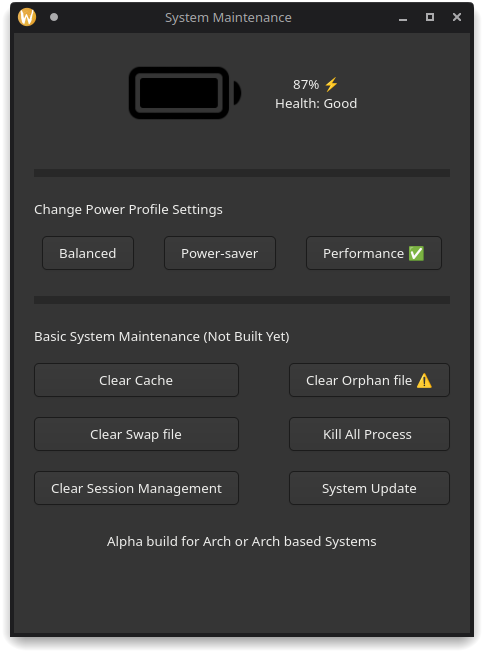
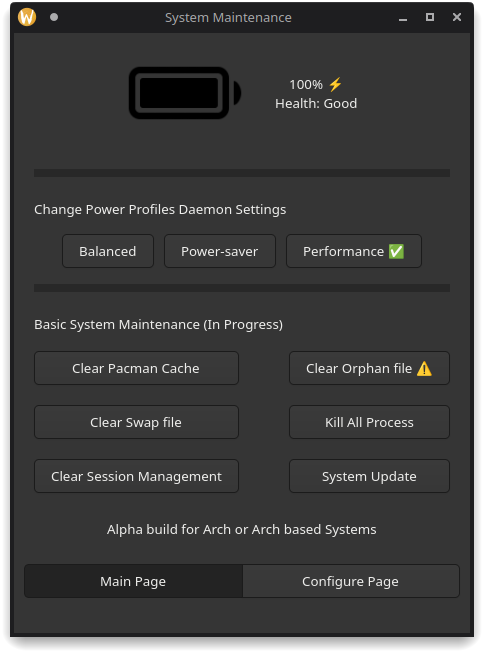
modified README.md, added minor changes to script (zenity prompt, system update fix)

diff --git a/app.py b/app.py
@@ -7,6 +7,37 @@ from gi.repository import Gtk, Gdk, GdkPixbuf, Gio, GLib
 
 gi.require_version('Gtk', '4.0')
 
+
+def prepare():
+    if not isZenityInstalled():
+        messageZen("Warning", "Zenity is not installed and could not be installed.")
+        return False
+
+    try:
+        result = subprocess.run(["pgrep", "-x", "zenity"], capture_output=True, text=True)
+        if result.returncode == 0:
+            messageZen("Warning", "Zenity is already running.")
+            return False
+    except subprocess.CalledProcessError as e:
+        messageZen("Error", f"Failed to check if Zenity is running: {e}")
+        return False
+
+    return True
+
+def messageZen(title, message):
+    if prepare():
+        try:
+            subprocess.run(["zenity", "--info", "--title", title, "--text", message], check=True)
+        except subprocess.CalledProcessError as e:
+            print(f"Failed to show message: {e}")
+
+def errorZen(title, message):
+    if prepare():
+        try:
+            subprocess.run(["zenity", "--error", "--title", title, "--text", message], check=True)
+        except subprocess.CalledProcessError as e:
+            print(f"Failed to show error: {e}")
+
 def update_battery_status(percentage_label, health_label):
     battery = psutil.sensors_battery()
     battery_percentage = int(battery.percent) if battery else None
@@ -46,7 +77,7 @@ def isZenityInstalled():
     except subprocess.CalledProcessError:
         subprocess.run(["sudo", "apt", "install", "-y", "zenity"], check=True)
         return False
-    
+
 def sudoPasswordPrompt():
     if isZenityInstalled():
         try:
@@ -119,21 +150,23 @@ def check_distro_and_update(_):
     distro_name = distro.id().lower()  # Get the lowercase distribution ID
     sudo_password = sudoPasswordPrompt()
     if not sudo_password:
-        print("No sudo password provided")
+        messageZen("Error", "No sudo password provided")
         return
 
     try:
         if 'arch' in distro_name or 'manjaro' in distro_name:
-            subprocess.run(["sudo", "pacman", "-Syu"], input=sudo_password + "\n", text=True, check=True)
-            subprocess.run(["yay", "-Syu"], check=True)
-            subprocess.run(["paru", "-Syu"], check=True)
+            subprocess.run(["sudo", "pacman", "-Syu", "--noconfirm"], input=sudo_password + "\n", text=True, check=True)
+            subprocess.run(["yay", "-Syu", "--noconfirm"], check=True)
+            subprocess.run(["paru", "-Syu", "--noconfirm"], check=True)
         elif 'ubuntu' in distro_name or 'debian' in distro_name:
             subprocess.run(["sudo", "-S", "apt", "update"], input=sudo_password + "\n", text=True, check=True)
             subprocess.run(["sudo", "-S", "apt", "upgrade", "-y"], input=sudo_password + "\n", text=True, check=True)
         else:
-            print(f"Unsupported distribution: {distro_name}")
+            messageZen("Error", f"Unsupported distribution: {distro_name}")
+            return
+        messageZen("Success", "System update completed successfully.")
     except subprocess.CalledProcessError as e:
-        print(f"Failed to update system: {e}")
+        messageZen("Error", f"Failed to update system: {e}")
 
 def create_main_page():
     battery = psutil.sensors_battery()

diff --git a/README.md b/README.md
@@ -10,10 +10,10 @@ My objective is to provide a simple and easy to use GUI for system maintainence 
 
 - [x] Battery Status
 - [x] Change Power Profiles (Only for laptops)
-- [ ] Update and Upgrade system packages (In progress)
-- [ ] Clean system cache (Not built yet)
-- [ ] Remove unnecessary files (Not built yet)
-- [ ] Provide a GUI for easy access (Not built yet)
+- [x] Update and Upgrade system packages (In progress)
+- [x] Clean system cache (In progress)
+- [x] Remove unnecessary / orphan files (In progress)
+- [x] Provide a GUI for easy access (In progress)
 - [ ] Provide a settings page for different laptops vendors example asusctl for Asus Laptops (Not built yet)
 
 > Note: This project is still under development and some features may not work as expected. I'll be adding more features in the future. I'm also open to contributions.
@@ -35,7 +35,7 @@ cd sys_main
 3. Install the dependencies (for Arch Linux)
 
 ```bash
-sudo pacman -S python-psutil
+sudo pacman -S python-psutil zenity
 ```
 
 4. Run the script
